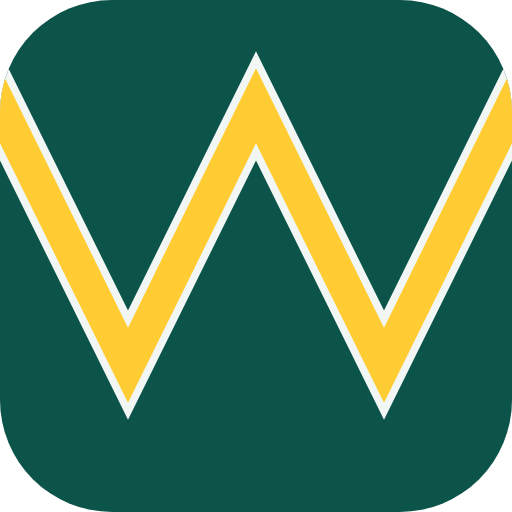
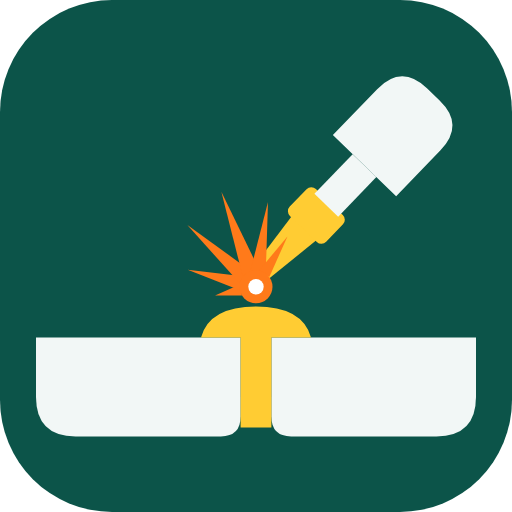
Redraw the WELD mark as a torch laying a weld bead (no W)

diff --git a/site/brand/README.md b/site/brand/README.md
@@ -1,18 +1,21 @@
 # WELD brand files
 
-**The mark is a weld seam that spells W.** Two green plates meet along a zigzag seam. The seam is the letter: down, up,
-down, up. A gold weld bead fills it. Many parts, one piece.
+**The mark is a torch laying a weld bead.** Two plates sit side by side, a gold bead fills the joint, and a welding
+torch comes in from the upper right with a spark burst at its tip. Many parts, one piece. There is no letterform in it:
+the mark is deliberately nothing like the Wayne State W, which is a protected university mark.
 
-The two plates are the Megazord pieces. The bead is the thing that makes them one. Unlike the Megazord, nobody has to
-shout to make it happen.
+Why a torch and not a letter: the bead across two plates is the whole idea, and a torch with sparks says "welding" at a
+glance, even at 32 px. The spark is the one hot accent; everything else is Wayne State green, gold and off-white.
+(Yes, the sparks are normal. `weld doctor` would worry if they were not.)
 
 ## Colours
 | Role | Colour |
 |---|---|
-| Plates on a light background, the tile | Wayne State green `#0C5449` |
-| The weld bead (the only gold) | Wayne State gold `#FFCC33` |
+| Plates and torch on a light background, the tile | Wayne State green `#0C5449` |
+| The spark (the only accent) | Hot orange `#FF7A1A`, white core |
+| The weld bead and torch nozzle (the only gold) | Wayne State gold `#FFCC33` |
 | Plates on dark backgrounds | White `#FFFFFF` |
-| Light surface, the gap on the tile | Off-white `#F2F7F6` |
+| Light surface, plates and torch on the tile | Off-white `#F2F7F6` |
 | Dark surface, terminal | Near-black `#0F1F1C` |
 
 Gold never sits behind white text. The bead is always gold, except in the one-colour mark.
@@ -20,45 +23,42 @@ Gold never sits behind white text. The bead is always gold, except in the one-co
 ## Files
 | File | Use |
 |---|---|
-| `weld-mark.svg` | The mark on light backgrounds: green plates, gold bead |
-| `weld-mark-white.svg` | The mark on dark or green backgrounds: white plates, gold bead |
-| `weld-mark-mono.svg` | One colour (`currentColor`), for print and single-ink use |
-| `weld-mark-animated.svg` | Front-page motion. The plates slide together and lock. The bead runs along the seam, then a small spark flashes at its end. One flash, about 2.2 seconds, plays once. Plates follow light and dark. With `prefers-reduced-motion: reduce` the animation is off and the page shows the finished mark |
-| `weld-tile.svg` | The app icon: the mark filling a rounded tile, with an off-white seam |
-| `weld-favicon.svg` | The tile with a thicker bead, for 32 and 64 px |
-| `weld-favicon-16.svg` | Hand-hinted on the 16 px grid. One unit is one pixel. A green block and a 2.4 px gold bead, no white seam |
+| `weld-mark.svg` | The mark on light backgrounds: green plates and torch, gold bead and nozzle, orange spark |
+| `weld-mark-white.svg` | The mark on dark or green backgrounds: white plates and torch |
+| `weld-mark-mono.svg` | One colour (`currentColor`), for print and single-ink use. Inline it; as an `<img>` it draws black |
+| `weld-mark-animated.svg` | Front-page motion. The torch drops in, a spark flashes once, and the bead rises across the joint. About 1.2 seconds, plays once. Plates and torch follow light and dark. With `prefers-reduced-motion: reduce` the animation is off and the page shows the finished mark minus the spark |
+| `weld-tile.svg` | The app icon: the mark on a rounded green tile, plates and torch in off-white |
+| `weld-favicon.svg` | The tile at 32 and 64 px |
+| `weld-favicon-16.svg` | Hand-hinted on the 16 px grid. One unit is one pixel: plates, bead, torch bar and a spark |
 | `weld-avatar-512.png` | The GitLab project avatar and the Open Graph image base |
 | `favicon-16.png`, `favicon-32.png`, `favicon-64.png`, `favicon.ico` | Browser favicons. The `.ico` holds all three |
 | `weld-board.png` | The 12-panel brand board |
 
 ## Geometry
-Drawn from exact geometry, not traced. The block is 300 by 300 units with corner radius 30. The seam runs through five
-points at x = 0, 75, 150, 225 and 300, with y = 60, 212, 60, 212 and 60. Both peaks sit at the same height, so the W is
-even. The bead is 38 units tall, measured straight up and down. Each plate stands 10 units back from the bead, so the
-seam reads as three clean lines. Two paths make the plates and one makes the bead. No masks, no traced bitmaps.
-
-The tile uses the same drawing scaled to 512 with a corner radius of 112, and a 44 unit bead. The 32 and 64 px version
-has a 54 unit bead, because a thin bead mushes at small sizes.
+Hand-written paths on a 512 unit grid, not traced. Two plates run from x = 56 to 456 with a 28 unit joint at x = 242 to
+270. The bead is one gold path: an arch over the joint that drops into it as a stem. The torch is a single group
+(nozzle, collar, neck, handle) rotated 44 degrees about the nozzle tip at (256, 292). The spark is six tapered rays and
+a round core centred at (256, 300). The tile is the same drawing, scaled 1.1, on a 512 square with corner radius 112.
+No masks, no gradients, no traced bitmaps.
 
 ## Clear space
-Keep 30 units of the block clear on every side, which is one tenth of the block. Every SVG here already carries that
-margin in its viewBox. Do not put text, edges or other marks inside it.
+Keep a tenth of the mark's width clear on every side. The viewBox of each mark SVG already carries that margin.
 
 ## Rules
+- Never add a letter to the mark, and never redraw it so any part reads as a W. The Wayne State W is not ours.
 - Never recolour the bead. Gold is the weld.
-- Never add a welder's mask, a torch, sparks or a glow. The spark in the animation is the only one, and it lives for half a second.
-- Never close the seam into a plain W of solid bars. The plates and the bead are the idea.
-- Never stretch or rotate the mark.
+- Never add a glow or gradient to the spark. It is flat orange `#FF7A1A` with a white core.
+- Never stretch, rotate or mirror the mark.
 
 ## Motion
-The animation is CSS inside the SVG. The top and bottom plates slide in from above and below, the bead is revealed from
-left to right by a clip, and a four-point spark flashes once at the end of the seam. Nothing flashes more than once.
+The animation is CSS inside the SVG. The torch slides in from the upper right, the spark flashes once, and the bead
+rises across the joint. Nothing flashes more than once.
 
 ## Rendering
 The PNGs were rendered from the SVGs with headless Edge at 1x. The `.ico` was assembled with Pillow from the three
 favicon PNGs.
 
 ## The board
-`weld-board.png` is composed in code from the real SVG geometry, so every mark on it is the true mark. It follows the
-Pinstripe board: primary and stacked logos, wordmarks, icon system, app icon, standalone mark, favicons, backgrounds,
-palette, type, `weld doctor` in use, and the motion frames.
+`weld-board.png` is composed in code from the real SVGs, so every mark on it is the true mark. It shows primary,
+stacked, reversed and dark logos, app icon, standalone and one-colour marks, favicons, palette, type, `weld doctor` in
+use, and backgrounds.
